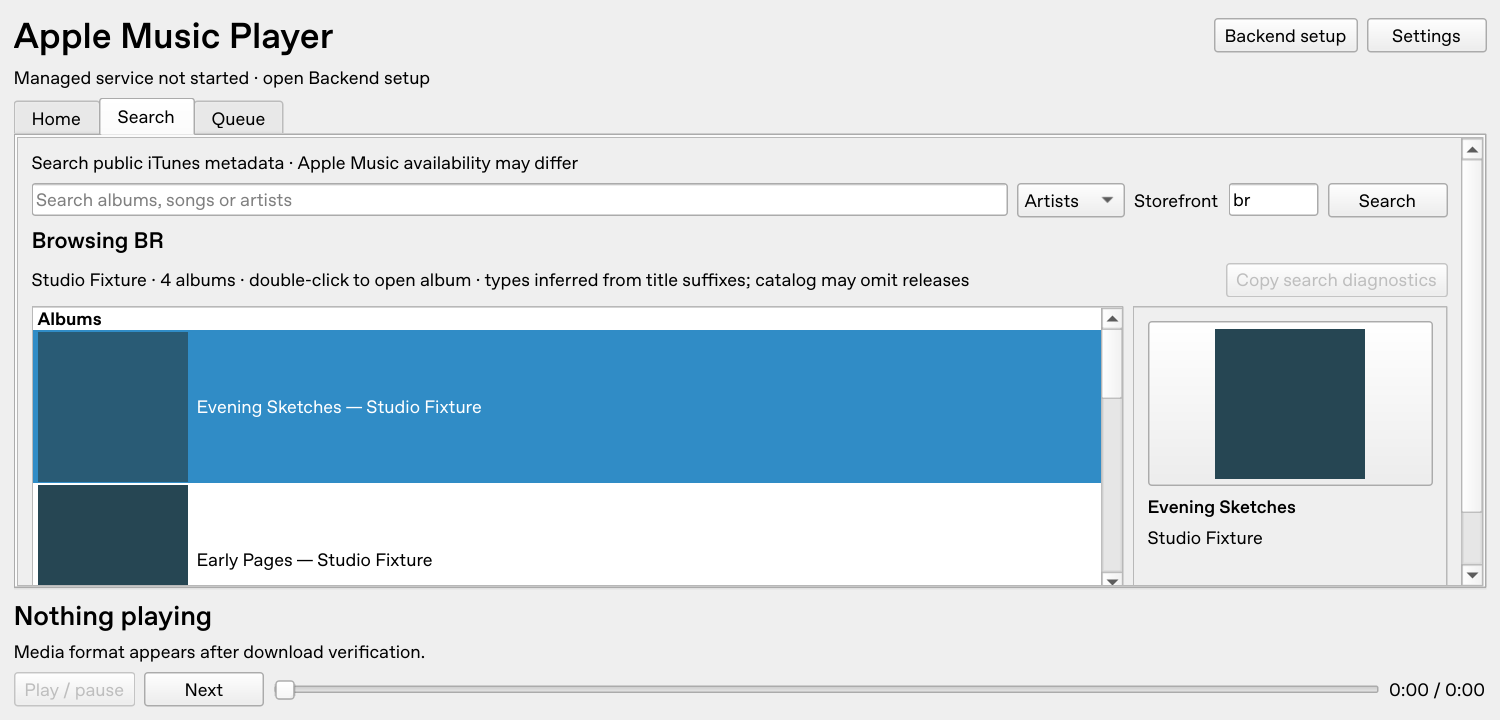
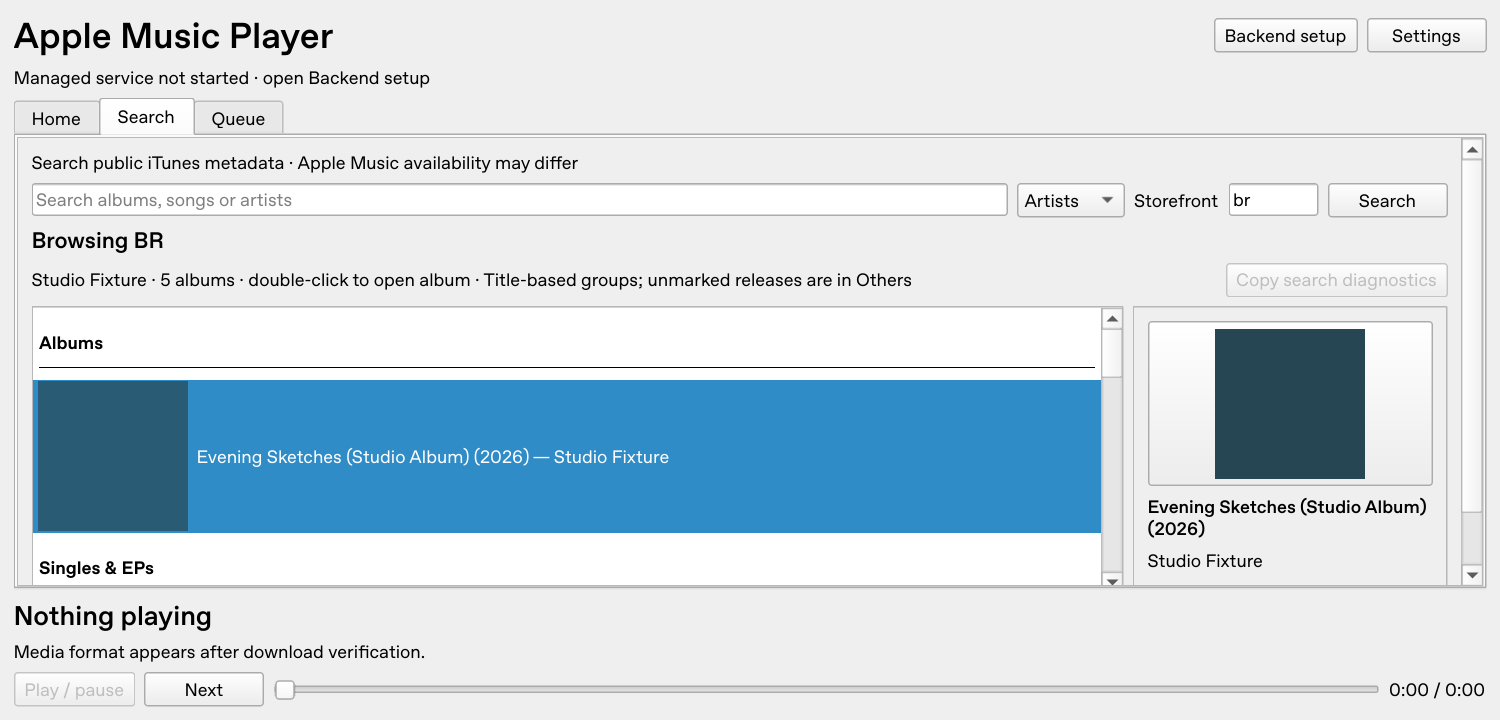
Show release years and conservative five-section artist browsing

diff --git a/tests/test_release_groups.py b/tests/test_release_groups.py
@@ -29,16 +29,15 @@ def test_release_classification_dates_and_deterministic_ties():
     ]
     groups = grouped_releases(releases)
     assert [(name, [a.id for a in values]) for name, values in groups] == [
-        ("Albums", ["2", "8", "9", "1", "10", "3"]),
-        ("EPs", ["5", "4"]),
-        ("Others", ["6", "7"]),
+        ("Singles & EPs", ["6", "5", "4"]),
+        ("Others", ["2", "8", "9", "1", "7", "10", "3"]),
     ]
     assert grouped_releases(list(reversed(releases))) == groups
-    assert release_group(album("11", "EP Stories")) == "Albums"
-    assert release_group(album("12", "Série - EP")) == "EPs"
-    assert release_group(album("13", "Édition - Single")) == "Others"
+    assert release_group(album("11", "EP Stories")) == "Others"
+    assert release_group(album("12", "Série - EP")) == "Singles & EPs"
+    assert release_group(album("13", "Édition - Single")) == "Singles & EPs"
     # No unverified localization / track-count heuristics.
-    assert release_group(album("14", "Title - Sencillo")) == "Albums"
+    assert release_group(album("14", "Title - Sencillo")) == "Singles & EPs"
     assert grouped_releases([]) == []
 
 
@@ -49,7 +48,7 @@ def test_grouped_artist_navigation_headers_and_play(app, tmp_path, monkeypatch):
     releases = [
         album("101", "First - Single", "2026-01-01"),
         album("102", "Second - EP", "2025-01-01"),
-        album("103", "Third album", "2024-01-01"),
+        album("103", "Third album (Studio Album)", "2024-01-01"),
     ]
     monkeypatch.setattr(window.catalog, "artist_albums", lambda *a: releases)
     songs = window.catalog.tracks(
@@ -77,21 +76,25 @@ def test_grouped_artist_navigation_headers_and_play(app, tmp_path, monkeypatch):
         window.show()
         window.open_artist(Artist("br", "301", "Fixture"))
         settle()
-        assert [window.result_list.item(i).text() for i in range(6)] == [
+        assert [window.result_list.item(i).text() for i in range(5)] == [
             "Albums",
-            "Third album — Fixture",
-            "EPs",
-            "Second - EP — Fixture",
-            "Others",
-            "First - Single — Fixture",
+            "Third album (Studio Album) (2024) — Fixture",
+            "Singles & EPs",
+            "First - Single (2026) — Fixture",
+            "Second - EP (2025) — Fixture",
         ]
-        for i in (0, 2, 4):
-            assert not window.result_list.item(i).flags() & Qt.ItemIsSelectable
+        for i in (0, 2):
+            heading = window.result_list.item(i)
+            assert not heading.flags() & Qt.ItemIsSelectable
+            assert heading.sizeHint().height() >= 48
+            header = window.result_list.itemWidget(heading)
+            assert header.accessibleName().endswith("releases")
+            assert header.autoFillBackground()
             window.result_list.setCurrentRow(i)
             window.add_selected()
             window.browse_album()
             assert not calls and not window.controller.queue
-        window.result_list.setCurrentRow(3)
+        window.result_list.setCurrentRow(4)
         QTest.mouseClick(window.selected_button, Qt.LeftButton)
         settle()
         assert calls == [("102", "br")]
@@ -146,3 +149,60 @@ def test_many_grouped_releases_keep_viewport_loading_stable(app, tmp_path, monke
         assert window.result_list.currentRow() == 150
     finally:
         window.close()
+
+
+def test_bjork_title_hints_and_ambiguous_names():
+    # Names verified on Apple's public Björk artist page; these expectations test
+    # our documented heuristic, not a claim of matching Apple's editorial categories.
+    expected = {
+        "Human Behaviour (UK Remixes) - EP": "Singles & EPs",
+        "Big Time Sensuality (UK CD1 Single)": "Singles & EPs",
+        "Vulnicura (Live)": "Live Albums",
+        "Björk's Greatest Hits": "Compilations",
+        "Fossora": "Others",
+        "Bastards": "Others",  # No title hint; do not silently infer a compilation.
+        "Cornucopia Live": "Others",  # Bare word 'Live' is ambiguous without a marker.
+    }
+    for title, group in expected.items():
+        assert release_group(album("1", title)) == group
+    for title in (
+        "Olive",
+        "Live Forever",
+        "I Live",
+        "The Best of Me",
+        "Single Minded",
+        "EP Stories",
+    ):
+        assert release_group(album("1", title)) == "Others"
+    for title in ("Show (Ao Vivo)", "Show - En Vivo", "Live at the Hall"):
+        assert release_group(album("1", title)) == "Live Albums"
+    assert release_group(album("1", "Show (Live) - Single")) == "Singles & EPs"
+    assert release_group(album("1", "Greatest Hits (Live)")) == "Compilations"
+    assert release_group(album("1", "Coletânea")) == "Compilations"
+    assert release_group(album("1", "Record (Studio Album)")) == "Albums"
+    groups = grouped_releases(
+        [
+            album("1", "Other"),
+            album("2", "Coletânea"),
+            album("3", "Show (Live)"),
+            album("4", "Short - EP"),
+            album("5", "Record (Studio Album)"),
+        ]
+    )
+    assert [group for group, _ in groups] == [
+        "Albums",
+        "Singles & EPs",
+        "Live Albums",
+        "Compilations",
+        "Others",
+    ]
+
+
+def test_release_year_uses_only_valid_returned_date():
+    assert album("1", "Record", "1997-09-22T00:00:00Z").release_title == "Record (1997)"
+    for invalid in ("", "unknown", "2024", "2024-02-30"):
+        release = album("1", "Record", invalid)
+        assert release.release_year == ""
+        assert release.release_title == "Record"
+    original = album("1", "Record", "1997-09-22")
+    assert original.album_title == "Record" and original.title == "Record — Fixture"

diff --git a/src/apple_music_player/app.py b/src/apple_music_player/app.py
@@ -37,6 +37,7 @@ from .browsing import (
     AlbumHeader,
     Shelf,
     TrackRowDelegate,
+    release_heading,
     set_artwork_icon,
     store_link,
 )
@@ -920,9 +921,16 @@ class Window(QMainWindow):
                                 font = heading.font()
                                 font.setBold(True)
                                 heading.setFont(font)
+                                heading.setSizeHint(QSize(0, 48))
                                 self.result_list.addItem(heading)
+                                self.result_list.setItemWidget(
+                                    heading, release_heading(group, self.result_list)
+                                )
                                 for album in albums_in_group:
-                                    item = QListWidgetItem(album.title)
+                                    item = QListWidgetItem(
+                                        album.release_title
+                                        + (" — " + album.artist if album.artist else "")
+                                    )
                                     self.result_indices[self.result_list.count()] = (
                                         self.results.index(album)
                                     )
@@ -931,7 +939,12 @@ class Window(QMainWindow):
                         else:
                             self.result_list.addItems(
                                 [
-                                    item.title
+                                    (
+                                        item.release_title
+                                        + (" — " + item.artist if item.artist else "")
+                                        if isinstance(item, Album)
+                                        else item.title
+                                    )
                                     + (
                                         " · " + item.genre
                                         if isinstance(item, Artist) and item.genre
@@ -987,7 +1000,7 @@ class Window(QMainWindow):
                                 self.pending_artist_name
                                 + " · "
                                 + self.catalog_status.text()
-                                + " · types inferred from title suffixes; catalog may omit releases"
+                                + " · Title-based groups; unmarked releases are in Others"
                             )
                         if isinstance(result, SearchResults):
                             self.catalog_status.setText(

diff --git a/src/apple_music_player/catalog.py b/src/apple_music_player/catalog.py
@@ -294,13 +294,39 @@ def recent_releases(albums, today=None):
 
 
 def release_group(album):
-    """Title suffix hints only: iTunes collectionType=Album also covers EPs/singles."""
+    """Conservative title hints, not Apple Music editorial release types."""
     title = album.album_title.strip()
-    if re.search(r"\s[-–—]\s*EP$", title, re.IGNORECASE):
-        return "EPs"
-    if not title or re.search(r"\s[-–—]\s*Single$", title, re.IGNORECASE):
-        return "Others"
-    return "Albums"
+    # An explicitly marked live single remains a single; no track-count guesses.
+    if re.search(
+        r"(?:\s[-–—]\s*|[([][^)\]]*\b)(?:EP|Single|Sencill[oa]s?|Single digital)"
+        r"(?:[)\]])?$",
+        title,
+        re.IGNORECASE,
+    ):
+        return "Singles & EPs"
+    if re.search(
+        r"\b(?:greatest hits|compilation|compilações|compilación|coletânea)\b", title, re.IGNORECASE
+    ):
+        return "Compilations"
+    if re.fullmatch(r"(?:the )?(?:best of|anthology|antologia|antología)", title, re.IGNORECASE):
+        return "Compilations"
+    if album.artist and title.casefold() in {
+        "best of " + album.artist.casefold(),
+        "the best of " + album.artist.casefold(),
+    }:
+        return "Compilations"
+    if re.search(
+        r"(?:[([]|\s[-–—]\s*)(?:live|ao vivo|en vivo)(?:\b[^)\]]*)[)\]]?$"
+        r"|^(?:live (?:at|in|from)|ao vivo|en vivo)\b",
+        title,
+        re.IGNORECASE,
+    ):
+        return "Live Albums"
+    if re.search(
+        r"(?:\s[-–—]\s*|[([])(?:studio album|album|álbum|LP)[)\]]?$", title, re.IGNORECASE
+    ):
+        return "Albums"
+    return "Others"
 
 
 def grouped_releases(albums):
@@ -313,6 +339,6 @@ def grouped_releases(albums):
 
     return [
         (group, sorted((a for a in albums if release_group(a) == group), key=order))
-        for group in ("Albums", "EPs", "Others")
+        for group in ("Albums", "Singles & EPs", "Live Albums", "Compilations", "Others")
         if any(release_group(a) == group for a in albums)
     ]

diff --git a/src/apple_music_player/browsing.py b/src/apple_music_player/browsing.py
@@ -127,7 +127,7 @@ class AlbumCard(QFrame):
         self.cover.installEventFilter(self)
         self.cover.clicked.connect(lambda: opened(album))
         layout.addWidget(self.cover)
-        self.title = QLabel(album.album_title or album.title)
+        self.title = QLabel(album.release_title)
         self.title.setTextFormat(Qt.PlainText)
         self.title.setWordWrap(True)
         self.title.setStyleSheet("font-weight: 600")
@@ -275,3 +275,24 @@ class Shelf(QWidget):
     def refresh(self):
         for card in self.cards:
             card.refresh()
+
+
+def release_heading(title, parent):
+    """A high-contrast, spaced section label with a separator, never a release."""
+    widget = QWidget(parent)
+    widget.setAutoFillBackground(True)
+    widget.setBackgroundRole(QPalette.Base)
+    layout = QVBoxLayout(widget)
+    layout.setContentsMargins(4, 12, 4, 6)
+    layout.setSpacing(4)
+    label = QLabel(title)
+    label.setTextFormat(Qt.PlainText)
+    font = label.font()
+    font.setBold(True)
+    label.setFont(font)
+    layout.addWidget(label)
+    line = QFrame()
+    line.setFrameShape(QFrame.HLine)
+    layout.addWidget(line)
+    widget.setAccessibleName(title + " releases")
+    return widget

diff --git a/src/apple_music_player/model.py b/src/apple_music_player/model.py
@@ -1,4 +1,5 @@
 from dataclasses import dataclass
+from datetime import date
 from hashlib import sha256
 from urllib.parse import parse_qs, urlparse
 
@@ -26,6 +27,18 @@ class Album:
     artwork_url: str = ""
     release_date: str = ""
     store_url: str = ""
+
+    @property
+    def release_year(self):
+        try:
+            return str(date.fromisoformat(self.release_date[:10]).year)
+        except ValueError:
+            return ""
+
+    @property
+    def release_title(self):
+        title = self.album_title or self.title
+        return title + (f" ({self.release_year})" if self.release_year else "")
 
     @property
     def url(self):

diff --git a/tests/test_artist_browsing.py b/tests/test_artist_browsing.py
@@ -98,7 +98,7 @@ def test_artist_album_play_and_diagnostics(app, tmp_path, monkeypatch):
         window.selected_button.click()
         settle()
         assert calls[-1][1]["id"] == "301" and calls[-1][1]["country"] == "br"
-        assert "may omit releases" in window.catalog_status.text()
+        assert "unmarked releases are in Others" in window.catalog_status.text()
         window.copy_search_button.click()
         report = json.loads(QApplication.clipboard().text())
         assert report["last_completed_search"]["entity"] == "musicArtist"

diff --git a/docs/browsing.md b/docs/browsing.md
@@ -73,10 +73,19 @@ Artist portraits are not implemented. Apple's [Artist attributes](https://develo
 
 ## Artist release groups
 
-Artist pages show Albums, EPs, then Others, omitting empty groups. Each group sorts by returned release date newest first, with missing/invalid dates last; equal dates use title, country and collection ID for deterministic ordering. Dates may describe reissues. Headings cannot be selected or queued.
+Artist pages show Albums, Singles & EPs, Live Albums, Compilations, then Others, omitting empty groups. Spaced, bold headings with separator lines cannot be selected or queued. Each group sorts newest returned release date first; missing/invalid dates are last, with title/country/ID ties deterministic. Release rows and cards append a year only from a valid returned date. Original titles are unchanged; the album-detail header keeps its existing release-date line instead of repeating a year. Dates may describe reissues rather than original publication.
 
-The public lookup's `collectionType=Album` includes LPs, EPs and singles. We therefore use conservative title hints: a final separated `- EP` (case-insensitive) goes to EPs; `- Single` goes to Others. En/em dashes are accepted as separators. Remaining titled collections go to Albums, which is a default bucket, not verified LP classification; missing titles go to Others. No track-count guesses or translated suffix guesses are made. Original titles and identities stay intact.
+The public iTunes [result documentation](https://developer.apple.com/library/archive/documentation/AudioVideo/Conceptual/iTuneSearchAPI/UnderstandingSearchResults.html) does not define editorial album/EP/live/compilation flags. Its collection type Album is not evidence of a major studio LP. The separate [Apple Music album attributes](https://developer.apple.com/documentation/applemusicapi/albums/attributes-data.dictionary) describe compilation information, but those are not fields we can assume in the public iTunes response. Live public iTunes payload verification remains unavailable in this environment; no denied route was retried.
 
-Artists is now the initial search mode. Direct song/album URL controls are removed; internal canonical playback URLs and parsing remain. The user accepts artist browsing as the practical workaround for public album-search omissions; no extra diagnostic UI was added.
+Our mutually exclusive groups are title heuristics, in this priority:
+- Singles & EPs: final separated EP/Single markers, including parenthesized labels such as UK CD1 Single. Supported Spanish single markers include Sencillo/Sencilla and their plurals.
+- Compilations: explicit Greatest Hits, Compilation, Compilación, Compilações or Coletânea phrases; exact Anthology/Antologia/Antología or Best Of titles; or Best Of followed by the actual artist name.
+- Live Albums: explicit parenthesized/bracketed or dash-separated Live/Ao Vivo/En Vivo markers, or Live at/in/from prefixes. Bare words such as Live Forever, I Live or Cornucopia Live are ambiguous and stay in Others.
+- Albums: explicit final Album/Álbum/Studio Album/LP markers only.
+- Others: every unmarked or unknown release. In particular, an ordinary studio-album title can appear here: we cannot safely distinguish it from an unmarked single or compilation.
+
+No track-count thresholds, guessed editorial fields, artist-specific hardcoded catalogs or translated-label guesses beyond the listed markers are used. [Apple's public Björk page](https://music.apple.com/us/artist/bj%C3%B6rk/295015?uo=4) supplies source names for tests (Human Behaviour (UK Remixes) - EP, Big Time Sensuality (UK CD1 Single), Vulnicura (Live), Björk's Greatest Hits, Fossora, Bastards). It also shows overlapping editorial categories. Our fixtures test the stated heuristic, not equality with Apple's taxonomy; Bastards and Fossora remain unknown without title hints.
+
+Artists is the initial search mode. Direct song/album URL controls are removed; internal canonical playback URLs and parsing remain. The user accepts artist browsing as the practical workaround for public album-search omissions; no extra diagnostic UI was added.
 
 Synthetic grouped artist previews: [normal](artist-groups.png) and [small/high-DPI](artist-groups-small.png).

diff --git a/README.md b/README.md
@@ -20,7 +20,7 @@ ruff format --check src tests
 **Requirements:** `mpv`, `ffprobe` (normally packaged with ffmpeg), and Qt Wayland libraries. Tests also use `ffmpeg` to generate synthetic audio. Backend setup lists missing tools; it does not install OS packages. Managed amdl v0.1.4 handles normal audio finalization natively; GPAC/MP4Box is not required.
 
 1. Open **Settings**, select your cache size. For Dolby, set your HDMI device from `mpv --audio-device=help`. The validated machine used `alsa/hdmi:CARD=HDMI,DEV=3`; your device may differ.
-2. Search defaults to **Artists** with **BR** for new configurations. Choose **Songs**, **Albums** or **Artists**, enter a query and your two-letter storefront, then Search. Search an artist name, choose **Open artist**, then **Open album** (or double-click) to see tracks. Artist releases appear as Albums, EPs, then Others, newest first within each group; type hints come from title suffixes. **Play album** starts from the first track and replaces current playback/queue; **Queue album** appends those songs. Album detail shows one cover/header and compact numbered tracks. Click its artist name to open that artist’s albums inside the player when the collection supplies an artist ID. Song results use **Queue selected**; **Browse album** opens the selected song's album. For artist browsing, choose **Artists**, search a name, then **Open artist** to list albums using its exact artist ID; open an album to play it. Availability and ranking depend on the public catalog/storefront.
+2. Search defaults to **Artists** with **BR** for new configurations. Choose **Songs**, **Albums** or **Artists**, enter a query and your two-letter storefront, then Search. Search an artist name, choose **Open artist**, then **Open album** (or double-click) to see tracks. Artist releases appear as Albums, Singles & EPs, Live Albums, Compilations, then Others, newest first within each group. Titles show the returned release year. Groups use conservative title hints; unmarked releases remain in Others. **Play album** starts from the first track and replaces current playback/queue; **Queue album** appends those songs. Album detail shows one cover/header and compact numbered tracks. Click its artist name to open that artist’s albums inside the player when the collection supplies an artist ID. Song results use **Queue selected**; **Browse album** opens the selected song's album. For artist browsing, choose **Artists**, search a name, then **Open artist** to list albums using its exact artist ID; open an album to play it. Availability and ranking depend on the public catalog/storefront.
 3. Choose **Prefer Lossless** or **Prefer Dolby Atmos** before queueing. Playback starts after a full download; only the next track is prefetched. Use pause, seek, Next, Remove, Cancel download and Retry. Device changes apply to the next playback; Retry restarts failed playback.
 
 **Media format is measured, not assumed.** Now playing shows Lossless (ALAC/FLAC), Lossy (AAC/AC-3), Dolby Digital Plus / Atmos unverified, or Dolby Atmos when ffprobe reports a JOC profile. Codec, sample rate, channels and available bit depth are shown. Requested-quality fallbacks are conspicuous. The separate output label reports mpv's PCM or compressed passthrough state, never receiver-confirmed Atmos. Dolby playback requires an explicit device and stops if mpv reports PCM fallback. Confirm Atmos on your soundbar. No app volume control is provided.
